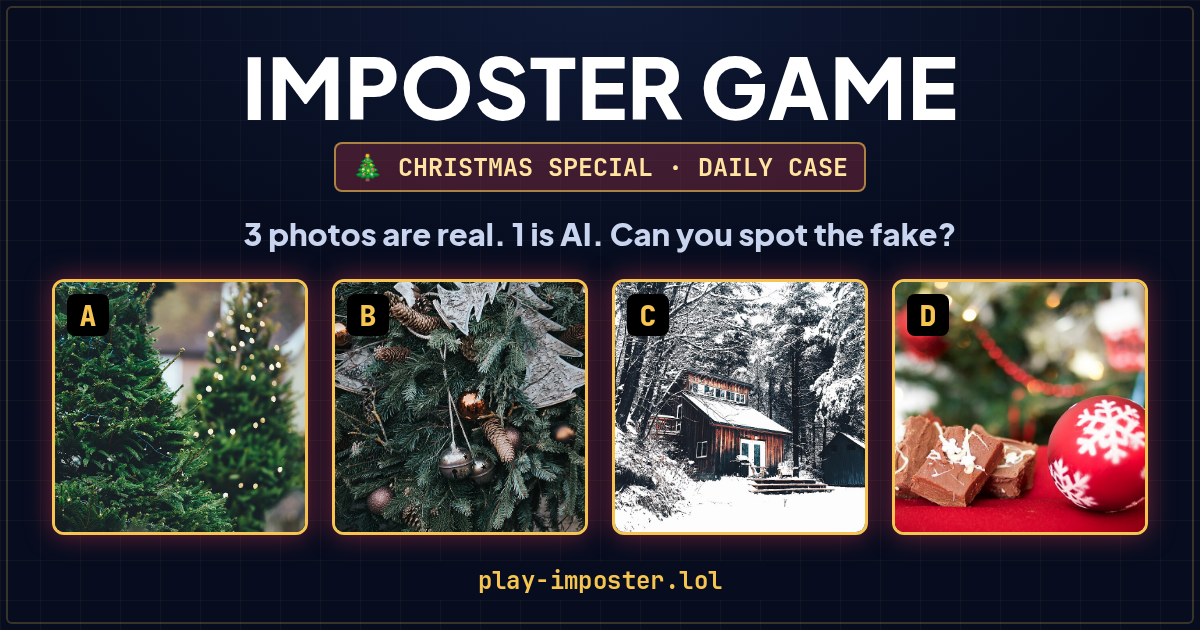
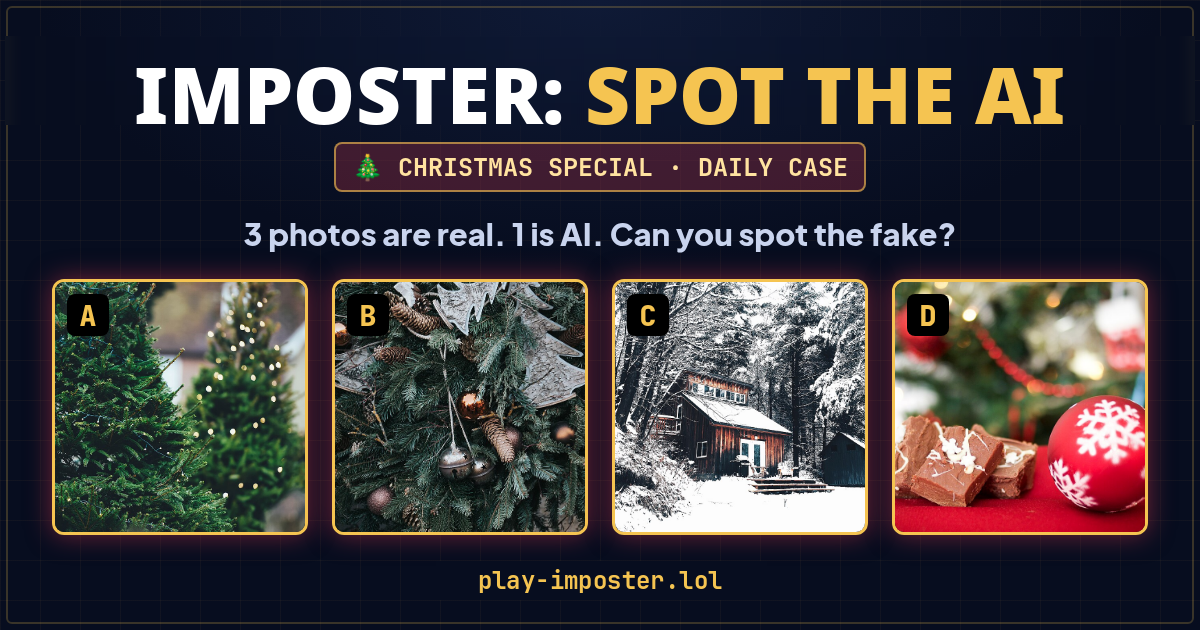
Link-preview images say Imposter: Spot the AI (all three seasons); ?v=2 so cached previews refresh

Changed region(s): [[0.0925, 0.0905, 0.8942, 0.2111], [0.9867, 0.0603, 1.0, 0.181]]

diff --git a/index.html b/index.html
@@ -14,8 +14,8 @@
 <meta property="og:description" content="6 Themed Rounds · 4 Photos Each. Exactly 1 synthetic AI imposter per round. Can you spot the AI fakes?">
 <meta property="og:type" content="website">
 <meta property="og:url" content="https://play-imposter.lol/">
-<meta property="og:image" content="https://play-imposter.lol/og-image.png">
-<meta property="og:image:secure_url" content="https://play-imposter.lol/og-image.png">
+<meta property="og:image" content="https://play-imposter.lol/og-image.png?v=2">
+<meta property="og:image:secure_url" content="https://play-imposter.lol/og-image.png?v=2">
 <meta property="og:image:type" content="image/png">
 <meta property="og:image:width" content="1200">
 <meta property="og:image:height" content="630">
@@ -23,7 +23,7 @@
 <meta name="twitter:card" content="summary_large_image">
 <meta name="twitter:title" content="Imposter: Spot the AI · {{SEASON_LABEL}} Edition · Can You Spot the AI Fake?">
 <meta name="twitter:description" content="6 Themed Rounds · 4 Photos Each. Exactly 1 synthetic AI imposter per round. Can you spot the AI fakes?">
-<meta name="twitter:image" content="https://play-imposter.lol/og-image.png">
+<meta name="twitter:image" content="https://play-imposter.lol/og-image.png?v=2">
 <meta name="twitter:image:alt" content="Imposter: four photos. Three are real, one is AI. Can you spot the fake?">
 <meta name="theme-color" content="#0d0f18">
 <meta name="google-adsense-account" content="ca-pub-2828356328766240">

diff --git a/how-to-spot-ai-images/index.html b/how-to-spot-ai-images/index.html
@@ -9,7 +9,7 @@
 <link rel="icon" href="/favicon.svg?v=2" type="image/svg+xml">
 <meta property="og:title" content="How to spot an AI-generated image · Imposter: Spot the AI">
 <meta property="og:description" content="A practical checklist for telling a real photo from an AI image: hands, text, light, reflections, textures and the tools that help.">
-<meta property="og:image" content="https://play-imposter.lol/og-image.png">
+<meta property="og:image" content="https://play-imposter.lol/og-image.png?v=2">
 <meta name="google-adsense-account" content="ca-pub-2828356328766240">
 <script async src="https://pagead2.googlesyndication.com/pagead/js/adsbygoogle.js?client=ca-pub-2828356328766240" crossorigin="anonymous"></script>
 <style>

diff --git a/about/index.html b/about/index.html
@@ -9,7 +9,7 @@
 <link rel="icon" href="/favicon.svg?v=2" type="image/svg+xml">
 <meta property="og:title" content="About · Imposter: Spot the AI">
 <meta property="og:description" content="Imposter is a free daily puzzle: six rounds of four photos, one generated by AI in each. How cases are made and who runs it.">
-<meta property="og:image" content="https://play-imposter.lol/og-image.png">
+<meta property="og:image" content="https://play-imposter.lol/og-image.png?v=2">
 <meta name="google-adsense-account" content="ca-pub-2828356328766240">
 <script async src="https://pagead2.googlesyndication.com/pagead/js/adsbygoogle.js?client=ca-pub-2828356328766240" crossorigin="anonymous"></script>
 <style>

diff --git a/contact/index.html b/contact/index.html
@@ -9,7 +9,7 @@
 <link rel="icon" href="/favicon.svg?v=2" type="image/svg+xml">
 <meta property="og:title" content="Contact · Imposter: Spot the AI">
 <meta property="og:description" content="How to get in touch with Imposter: feedback, photo credits and corrections.">
-<meta property="og:image" content="https://play-imposter.lol/og-image.png">
+<meta property="og:image" content="https://play-imposter.lol/og-image.png?v=2">
 <meta name="google-adsense-account" content="ca-pub-2828356328766240">
 <script async src="https://pagead2.googlesyndication.com/pagead/js/adsbygoogle.js?client=ca-pub-2828356328766240" crossorigin="anonymous"></script>
 <style>

diff --git a/functions/_middleware.js b/functions/_middleware.js
@@ -6,9 +6,9 @@ const ALT = "Imposter: 3 photos are real. 1 is AI. Can you spot the fake?";
 function seasonOg(date) {
   // Mirrors SEASON_TABLE in index.html (UTC here: crawlers have no local date).
   const m = date.getUTCMonth() + 1;
-  if (m === 11) return "og-thanksgiving.png";
-  if (m === 12) return "og-christmas.png";
-  return "og-image.png";
+  if (m === 11) return "og-thanksgiving.png?v=2";
+  if (m === 12) return "og-christmas.png?v=2";
+  return "og-image.png?v=2";
 }
 
 function parseChallenge(sp) {
